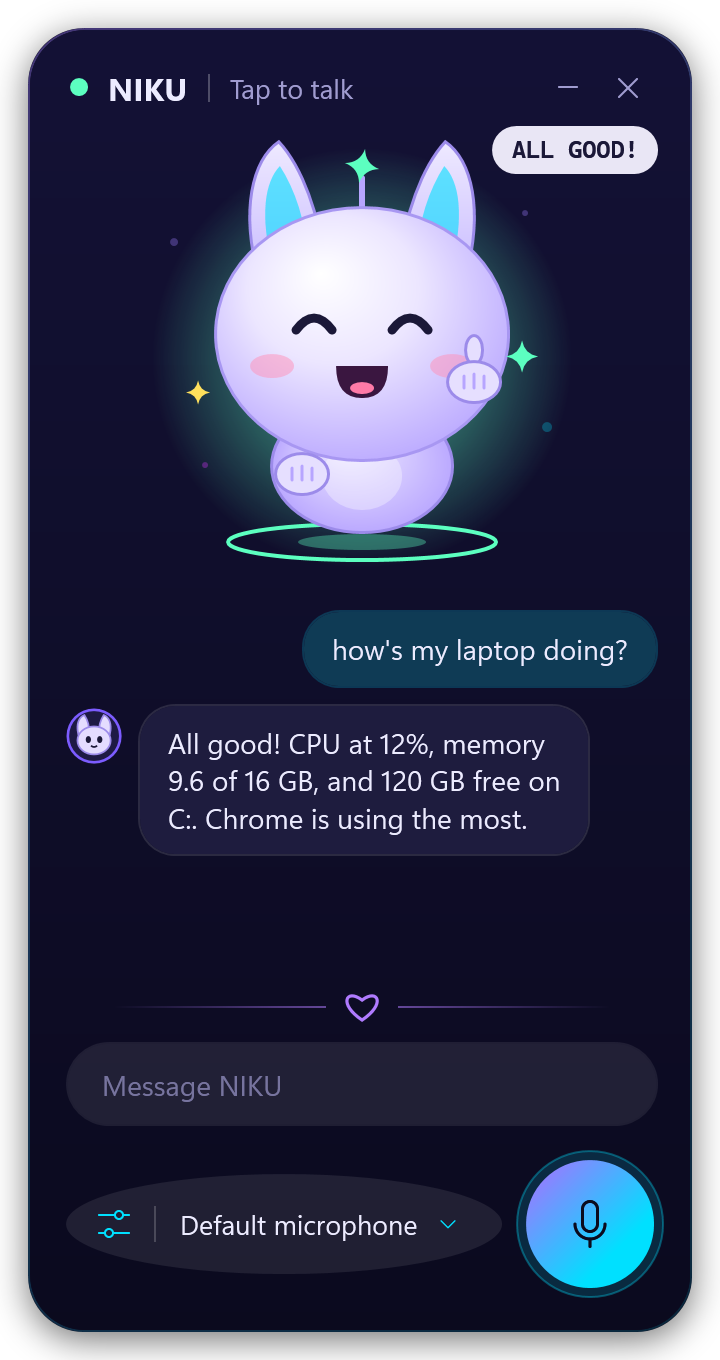
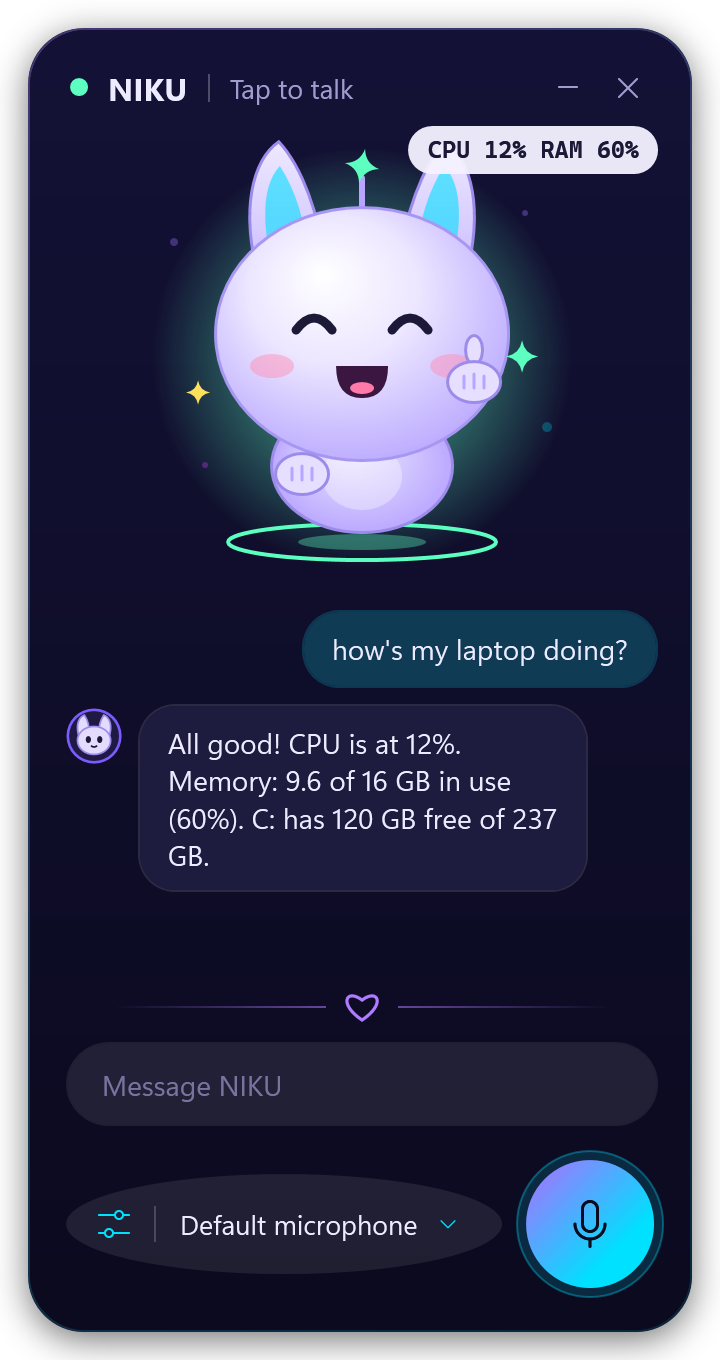
Typed questions about the PC are answered by the PC, not Gemini
"How's my laptop doing?", "how much battery?", "what's using my memory?",
"disk space", "what are my specs?" - typed in the voice window or chat.cmd -
are now answered by the companion from the PC's own numbers, at once, like
a face or a trick (Get-StatsReply). Nothing goes to Gemini; it works with
no key and no internet, in milliseconds. The dongle and the window show a
thumbs-up and a short line (CPU 12% RAM 60%, BATTERY 100%), or a look when
what was asked about needs one: a busy PC, a nearly full disk, a low
battery - with the reason in the answer.

In the window, a typed PC question goes to the companion even during a
voice conversation (not into Gemini Live); with no companion, the window
answers it itself. Only a question spoken out loud still reaches Gemini,
through get_pc_stats, because Gemini makes the voice that says it.

The processor reads "Intel Core i5-8250U", not "Intel(R) Core(TM)
i5-8250U CPU @ 1.60GHz". The chat image is re-rendered with the new answer.

Changed region(s): [[0.2444, 0.525, 0.7639, 0.6485], [0.55, 0.0926, 0.8861, 0.1544]]

diff --git a/tests/buddy/test_buddy.py b/tests/buddy/test_buddy.py
@@ -494,16 +494,26 @@ def voice():
        'class BuddyMirror' in cs and '^([EB] [A-Z0-9]{1,12}|V [0-4]|L' in cs,
        "the companion copies Buddy's lines to the window, on 127.0.0.1, and the window takes only those")
 
-    # Its PC's numbers go to Gemini only when the owner asks.
+    # A typed question about this PC is answered by the PC itself; its
+    # numbers go to Gemini only when spoken, because Gemini says the answer.
     ok("name = 'get_pc_stats'" in window and 'fn == "get_pc_stats"' in cs,
-       'the voice session can be asked about this PC (get_pc_stats)')
+       'a spoken question about this PC is answered through get_pc_stats')
     ask = ps.split('function Start-BuddyAsk', 1)[1].split('\n}\n', 1)[0]
-    ok('$chat.text -match $MACHINE_WORDS' in ask and '[NexusVoice.Machine]::Summary()' in ask,
-       'a chat gets the PC\'s numbers only when it asks about the PC')
-    words = re.search(r"\$MACHINE_WORDS = '([^']+)'", ps).group(1)
-    ok(all(re.search(words, t, re.I) for t in ["how's my laptop doing?", 'what is my cpu at', 'battery?', 'how much RAM is free']) and
-       not any(re.search(words, t, re.I) for t in ['hi niku', 'sing me a song', 'how are you today']),
-       'and what counts as asking')
+    ok('Machine' not in ask, 'a typed chat never sends the PC\'s numbers to Gemini')
+    lines = ps.split('function Get-BuddyLines', 1)[1].split('\n}\n', 1)[0]
+    ok('$cmd = Get-StatsReply $msg.text' in lines,
+       'the companion answers a PC question itself, like a face or a trick')
+    ok('$stats = Get-StatsReply $text' in window and 'Show-VoiceStats' in window,
+       'the window sends a PC question to the companion, not to Gemini Live, and answers it itself without one')
+    m = re.search(r"\$STATS_ASK = ((?:'[^']*(?:''[^']*)*'\s*\+?\s*)+)", ps)
+    words = ''.join(re.findall(r"'((?:[^']|'')*)'", m.group(1))).replace("''", "'") if m else 'x^'
+    asked = ["how's my laptop doing?", 'how is my pc', 'what is my cpu at', 'battery?', 'how much RAM is free',
+             "what's using my memory?", 'disk space', 'show me my stats']
+    chat = ['hi niku', 'sing me a song', 'how are you today', 'show me a happy face', 'high five',
+            'what time is it', 'tell me about computers in space']
+    ok(all(re.search(words, t, re.I) for t in asked) and not any(re.search(words, t, re.I) for t in chat),
+       'what counts as asking about this PC: %s'
+       % ([t for t in asked if not re.search(words, t, re.I)] + [t for t in chat if re.search(words, t, re.I)]))
 
     # It opens at sign-in, quietly, and can be stopped from doing so.
     inst = ps.split('if ($Install) {')[-1].split('\n}\n')[0]

diff --git a/docs/buddy.md b/docs/buddy.md
@@ -244,13 +244,19 @@ button. Switch it off in the window's settings, or under Task Manager ->
 Startup apps (`NEXUS Buddy`); `uninstall.cmd` removes it and closes the
 window.
 
-**Asking about this PC.** Ask "how's my laptop doing?", "what's using my
-memory?" or "how much battery is left?", out loud or typed. Buddy answers from
-this PC's numbers right then: CPU load and model, memory used, free space on
-the system disk, battery and charging, uptime, the Windows version and the
-three apps using the most memory. They are read only when you ask, and go to
-Gemini only for that answer: out loud through a `get_pc_stats` tool, typed
-when the message mentions the CPU, memory, disk, battery, apps or the PC.
+**Asking about this PC.** Type "how's my laptop doing?", "what's using my
+memory?", "how much battery is left?", "disk space" or "what are my specs?" -
+in the window or `chat.cmd` - and the PC answers it itself, at once, from its
+own numbers: CPU load, memory used and the three apps using the most of it,
+free space on the system disk, battery and charging, uptime, and the Windows
+version and processor. Like a face or a trick, it never goes to Gemini, and
+works with no key and no internet. The dongle and the window show a
+thumbs-up and a short line (`CPU 12% RAM 60%`, `BATTERY 100%`), or a look
+when something needs one: a busy PC, a nearly full disk, a low battery.
+
+Asked out loud, in a voice conversation, the answer has to come back in
+Buddy's voice, which Gemini makes: there Gemini calls a `get_pc_stats` tool
+and gets the same numbers, for that answer only.
 
 **Typing in the window.** The message box above the buttons goes where the
 conversation is:
@@ -323,7 +329,8 @@ in the background.
 
 Gemini hears the time of day, how busy the PC is as low / medium / high, the
 track playing and why it is being asked - and in a chat, what you type to
-it. When you ask about the PC itself, that answer also gets its numbers
+it. A typed question about the PC is answered on the PC and never sent; a
+spoken one, in a voice conversation, sends its numbers for that answer
 (above): load, memory, disk, battery, uptime, Windows version and the names
 of the three apps using the most memory. Never keystrokes, window titles,
 screen contents or files. The dongle sends nothing back at all.
